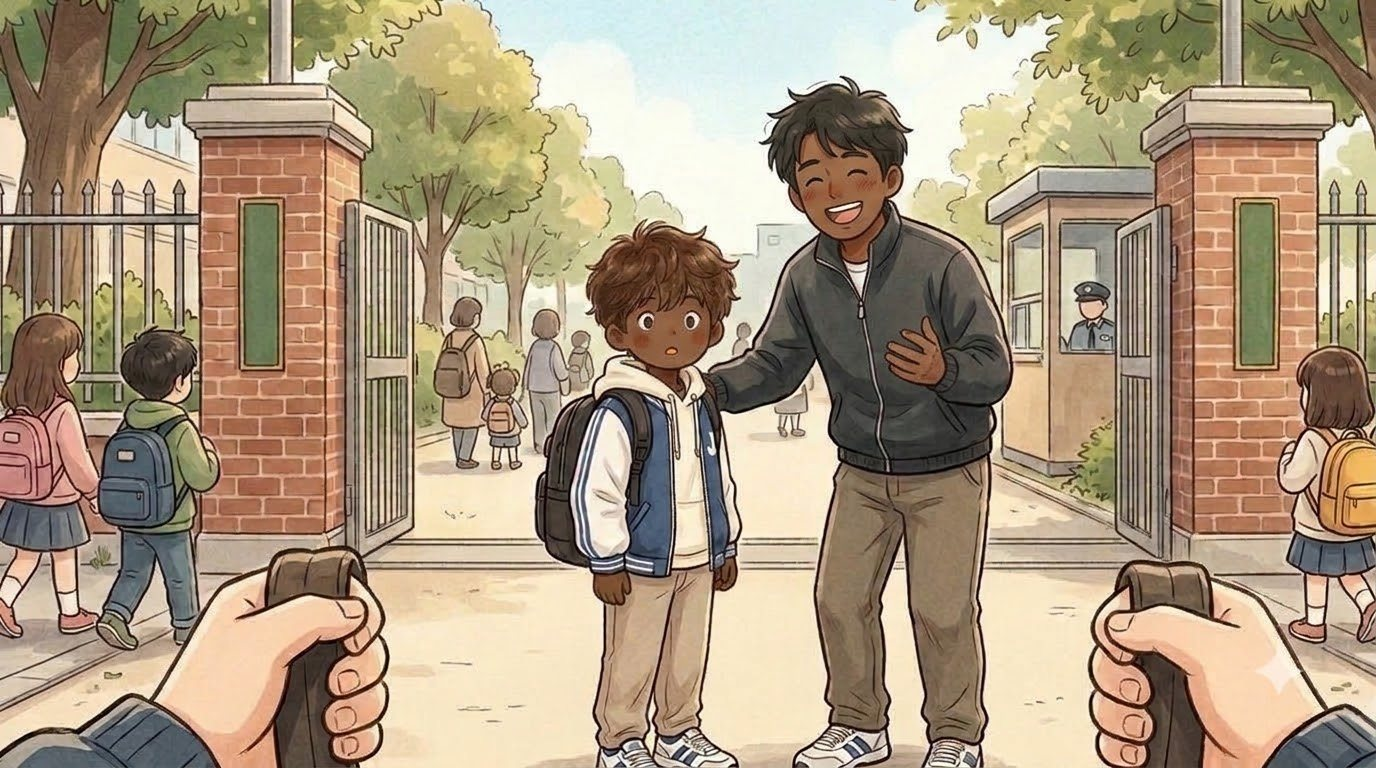
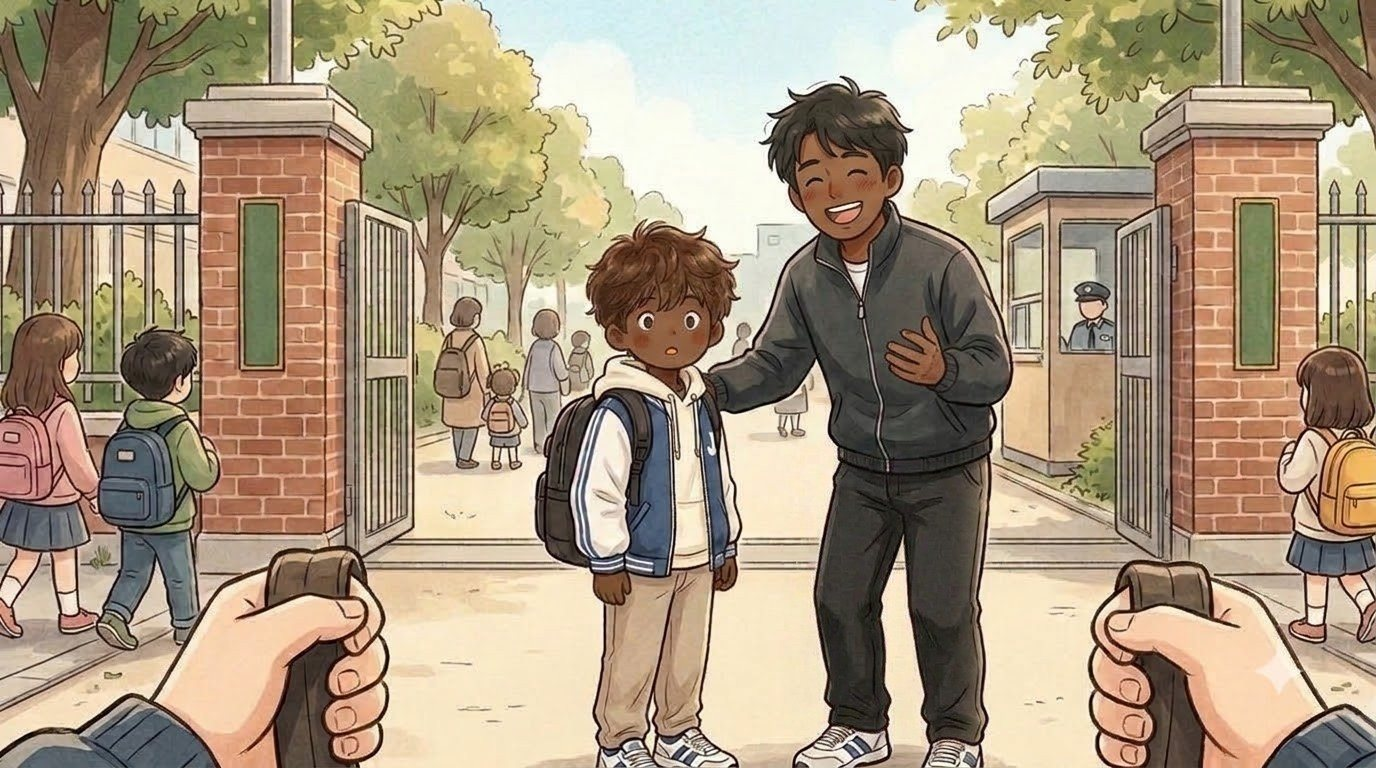
Jiho: AI check fixes (meetings 8-12) - meeting 8: the running picture leaves before the backpack line, the school gate is easier to tap, Jiho's dad is shown when he talks after B/C/D, his trousers now match (black), a new picture of him walking to the car and looking back; meeting 10 D: Haeun is in 

Changed region(s): [[0.5938, 0.5938, 0.7188, 0.9688]]

diff --git a/index.html b/index.html
@@ -119,14 +119,14 @@ body,button{word-break:keep-all;overflow-wrap:break-word}
 <div id="fader"></div>
 <script>
 // same address, newest version: if the page this phone has kept is older than the one online, fetch the new one and reopen
-const BUILD='1107113721';
+const BUILD='1107114147';
 try{fetch(location.pathname,{cache:'no-store'}).then(r=>r.text()).then(t=>{const m=t.match(/const BUILD='(\d+)'/);if(m&&m[1]!==BUILD&&sessionStorage.getItem('upd')!==m[1]){sessionStorage.setItem('upd',m[1]);fetch(location.pathname,{cache:'reload'}).then(()=>location.reload())}}).catch(()=>{})}catch(e){}
 </script>
-<script src="i18n.js?v=1107113721"></script>
-<script src="i18n_prologue_v2.js?v=1107113721"></script>
-<script src="day2/i18n_engine.js?v=1107113721"></script>
-<script src="day2/data.js?v=1107113721"></script>
-<script src="day3/data.js?v=1107113721"></script>
+<script src="i18n.js?v=1107114147"></script>
+<script src="i18n_prologue_v2.js?v=1107114147"></script>
+<script src="day2/i18n_engine.js?v=1107114147"></script>
+<script src="day2/data.js?v=1107114147"></script>
+<script src="day3/data.js?v=1107114147"></script>
 <script>
 // ---------- data ----------
 const MW=1672,MH=941,KID=180;
@@ -549,34 +549,34 @@ function pickHero(){const m=document.getElementById('modal'),c=document.getEleme
  c.innerHTML=`<h2>${tr('전학생 반장되기')}</h2><p>${tr('한국말이 아직 서툰 전학생,<br>반장 선거에 나가다.')}</p><p style="margin-top:14px">${tr('누구로 할까요?')}</p>${(()=>{const s=loadSave();return s&&s.day>=2&&s.mode===UI+'-'+LANG?`<p><button class="big" id="cont">${tr('{n}일차부터 이어 하기').replace('{n}',s.day)}</button></p>`:''})()}<div class="pick heroes"><button data-h="hero_f"><img src="faces/hero_f_smile.jpg" alt="여자 주인공">${heroName(1)}</button><button data-h="hero_m"><img src="faces/hero_m_smile.jpg" alt="남자 주인공">${heroName(0)}</button></div>`;
  m.classList.add('on');{const cb=document.getElementById('cont');if(cb)cb.onclick=()=>{const s=loadSave();HERO=s.hero;Object.assign(HEART,s.heart||{});(s.found||[]).forEach(k=>FOUND.add(k));HEART_D1={...HEART};chime();(typeof contGame==='function'?contGame(s):startDay(Math.min(s.day,Object.keys(window.D3||{}).length?3:2)))}}c.querySelectorAll('.pick button').forEach(b=>b.onclick=()=>{HERO=b.dataset.h;m.classList.remove('on');chime();bgm('day');load('home_am');say([['nar','','이사 온 다음 날 아침. 아직 풀지 못한 상자들이 쌓여 있다.'],['think','sad','(오늘부터 새 학교야. 여기 말도 아직 서툰데…….)'],['think','smile','({m}한테 인사하고 학교 가야지.)']],morning)})}
 </script>
-<script src="day2/engine.js?v=1107113721"></script>
-<script src="day2/ep_minho.js?v=1107113721"></script>
-<script src="day2/meet.js?v=1107113721"></script>
-<script src="day2/ep_sua.js?v=1107113721"></script>
-<script src="day2/ep_hangyeol.js?v=1107113721"></script>
-<script src="day2/ep_siwoo.js?v=1107113721"></script>
-<script src="day2/ep_haram.js?v=1107113721"></script>
-<script src="day2/ep_jiho.js?v=1107113721"></script>
-<script src="day2/ep_hyeeun.js?v=1107113721"></script>
-<script src="day2/ep_haneul.js?v=1107113721"></script>
-<script src="day2/ep_junho.js?v=1107113721"></script>
-<script src="day2/ep_yuna.js?v=1107113721"></script>
-<script src="day2/ep_yena.js?v=1107113721"></script>
-<script src="day2/ep_haeun.js?v=1107113721"></script>
-<script src="day2/ep_youngmin.js?v=1107113721"></script>
-<script src="day2/ep_seah.js?v=1107113721"></script>
-<script src="day2/ep_jihoon.js?v=1107113721"></script>
-<script src="words_ja_ru.js?v=1107113721"></script>
-<script src="day2/mybag.js?v=1107113721"></script>
-<script src="day2/wordpics.js?v=1107113721"></script>
-<script src="day2/spots.js?v=1107113721"></script>
-<script src="day2/textfit.js?v=1107113721"></script>
-<script src="day2/tester.js?v=1107113721"></script>
-<script src="day2/ux.js?v=1107113721"></script>
-<script src="day2/tapword.js?v=1107113721"></script>
-<script src="day2/review.js?v=1107113721"></script>
-<script src="day2/ep_ending.js?v=1107113721"></script>
-<script src="day2/ending.js?v=1107113721"></script>
+<script src="day2/engine.js?v=1107114147"></script>
+<script src="day2/ep_minho.js?v=1107114147"></script>
+<script src="day2/meet.js?v=1107114147"></script>
+<script src="day2/ep_sua.js?v=1107114147"></script>
+<script src="day2/ep_hangyeol.js?v=1107114147"></script>
+<script src="day2/ep_siwoo.js?v=1107114147"></script>
+<script src="day2/ep_haram.js?v=1107114147"></script>
+<script src="day2/ep_jiho.js?v=1107114147"></script>
+<script src="day2/ep_hyeeun.js?v=1107114147"></script>
+<script src="day2/ep_haneul.js?v=1107114147"></script>
+<script src="day2/ep_junho.js?v=1107114147"></script>
+<script src="day2/ep_yuna.js?v=1107114147"></script>
+<script src="day2/ep_yena.js?v=1107114147"></script>
+<script src="day2/ep_haeun.js?v=1107114147"></script>
+<script src="day2/ep_youngmin.js?v=1107114147"></script>
+<script src="day2/ep_seah.js?v=1107114147"></script>
+<script src="day2/ep_jihoon.js?v=1107114147"></script>
+<script src="words_ja_ru.js?v=1107114147"></script>
+<script src="day2/mybag.js?v=1107114147"></script>
+<script src="day2/wordpics.js?v=1107114147"></script>
+<script src="day2/spots.js?v=1107114147"></script>
+<script src="day2/textfit.js?v=1107114147"></script>
+<script src="day2/tester.js?v=1107114147"></script>
+<script src="day2/ux.js?v=1107114147"></script>
+<script src="day2/tapword.js?v=1107114147"></script>
+<script src="day2/review.js?v=1107114147"></script>
+<script src="day2/ep_ending.js?v=1107114147"></script>
+<script src="day2/ending.js?v=1107114147"></script>
 <script>
 // the goal shows big for a few seconds, then folds into a small pill (tap it to open it again)
 {const g=document.getElementById('goal');let t=null;const big=()=>{g.classList.remove('mini');clearTimeout(t);t=setTimeout(()=>g.classList.add('mini'),4000)};

diff --git a/day2/ep_jiho.js b/day2/ep_jiho.js
@@ -586,10 +586,11 @@ EP.jiho=[
 
 // ■ Day 8 — 너는 몇 등? (7)
 {title:'너는 몇 등?',scene:'jiho_07',place:'hall',at:[820,420],
- things:{hall:[['bag',940,600,52]]},taps:{gatesun:[['door',970,690,100]]},
+ things:{hall:[['bag',940,600,52]]},taps:{gatesun:[['door',970,690,180]]},
  pre:[
   {pic:'jiho_07b'},
   ['nar','','오늘 체육 시간에 50미터 달리기 기록을 쟀다. 지호는 7.9초로 반 1등이었다. 나는 10.4초였다. 반에서 꼴찌였다. 처음 쟀을 때보다는 1초 빨라졌지만.'],
+  {pic:null},
   ['nar','','하교 시간. 신발을 갈아 신는데 {@bag}끈이 어깨에서 자꾸 흘러내렸다.'],
   {k:'bag',goal:'「{x}」 메기'},
   ['nar','','{@bag}끈을 줄여서 두 어깨에 단단히 멨다.'],
@@ -624,25 +625,29 @@ EP.jiho=[
    ['nar','','지호가 눈을 동그랗게 뜨고 나를 봤다.'],{pic:null}]},
   {k:'B',text:'「꼴찌요. 저는 리프팅이 더 좋아요.」',pts:{jiho:2},r:[
    ['me','smile','꼴찌요. 저는 리프팅이 더 좋아요.'],
+   {pic:'jiho_07d'},
    ['nar','','지호 아빠: 「하하! 좋아하는 게 있으면 됐지.」'],
    ['nar','','아저씨가 고개를 끄덕였다.'],
    ['nar','','지호 아빠: 「지호한테도 리프팅 좀 가르쳐 줘라. 얘가 그건 맨날 진대.」'],
-   ['jiho','angry','아빠!!']]},
+   ['jiho','angry','아빠!!'],{pic:null}]},
   {k:'C',text:'지호 말에 기대어 「……네, 리프팅 1등이에요.」 하고 달리기는 말하지 않는다.',pts:{jiho:1},r:[
    ['me','smile','……네. 리프팅이요.'],
+   {pic:'jiho_07d'},
    ['nar','','지호 아빠: 「오, 진짜구나. 지호가 리프팅은 졌다더니.」'],
    ['nar','','아저씨가 웃었다. 나도 따라 웃었다. 그런데 웃는 동안 ‘10.4초’가 머릿속에서 떠나지 않았다.'],
-   ['think','sad','(거짓말은 아니야. 근데 다 말한 것도 아니야.)']]},
+   ['think','sad','(거짓말은 아니야. 근데 다 말한 것도 아니야.)'],{pic:null}]},
   {k:'D',text:'「음…… 잘 모르겠어요.」 하고 웃는다.',pts:{jiho:0},r:[
    ['me','smile','음…… 잘 모르겠어요.'],
+   {pic:'jiho_07d'},
    ['nar','','나는 웃어 버렸다.'],
    ['nar','','지호 아빠: 「아, 아직 기록이 안 나왔구나.」'],
    ['nar','','아저씨는 고개를 끄덕였다. 지호는 아무 말도 하지 않았다. 나를 한 번 보고, {@shoes} 끝을 봤다.'],
-   ['think','sad','(꼴찌라고 하면 ‘아깝다’ 할 것 같았어.)']]}],
+   ['think','sad','(꼴찌라고 하면 ‘아깝다’ 할 것 같았어.)'],{pic:null}]}],
  flag:{J08_rank:{A:1,B:1}},
  post:[
   {pic:'jiho_07a'},
   ['nar','','지호 아빠: 「자, 다들 조심히 가라. 지호야, 차 저기 있다.」'],
+  {pic:'jiho_07e'},
   ['nar','','아저씨가 먼저 몇 걸음 걸어갔다. 그러다 돌아보며 지호한테 말했다.'],
   ['nar','','지호 아빠: 「아, 멀리뛰기 다시 재는 날 있지? 그땐 2미터 넘기자.」'],
   ['jiho','sad','……응.'],
@@ -810,8 +815,8 @@ EP.jiho=[
    ['nar','','체육관에 지호 목소리가 쩌렁쩌렁 울렸다. 선생님이 바로 오셨다.'],{pic:null}]},
   {k:'D',text:'옆에 있는 하은에게 작게 말한다. 「나 {@finger} 아파.」',pts:{jiho:1},r:[
    ['me','sad','하은아…… 나 {@finger} 아파.'],
-   ['haeun','surprised','어? 보여 줘. ……야, 부었다! 선생님! 얘 다쳤어요!'],
    {pic:'jiho_09c'},
+   ['haeun','surprised','어? 보여 줘. ……야, 부었다! 선생님! 얘 다쳤어요!'],
    ['nar','','하은이가 대신 손을 번쩍 들었다. 선생님이 오셨다.'],
    ['jiho','surprised','왜, 왜? 다쳤어? 아까 그거?'],
    ['think','sad','(하은이한테라도 말해서 다행이야. 다음엔 선생님께 직접 말해 봐야지.)'],{pic:null}]}],
@@ -1017,6 +1022,7 @@ EP.jiho=[
    ['jiho','smile','다음 판도 너 해. 대신 어깨는 봐줘. 어깨는 진짜 돼.'],
    ['me','laugh','어깨는 돼. 손은 안 돼.']]},
   {only:['B','C'],lines:[
+   {pic:'jiho_11c'},
    ['jiho','sad','……아까 그거, 손이었어.'],['me','sad','……알아.'],
    ['jiho','angry','알았으면 말하지. 심판이잖아.'],
    ['nar','','지호가 {@ball}을 들고 먼저 뛰어갔다.']]},
